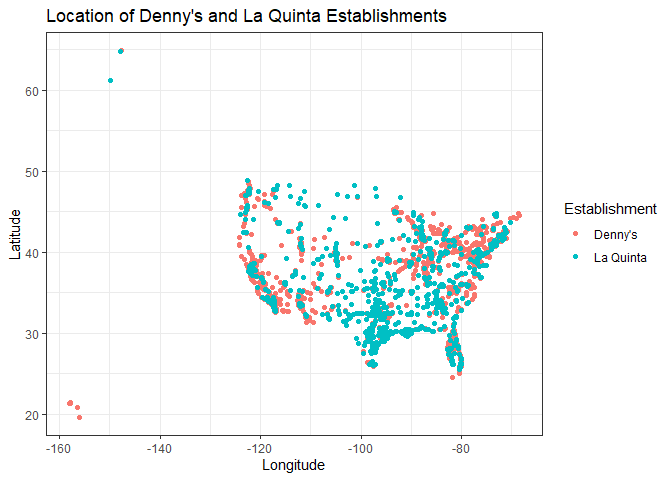
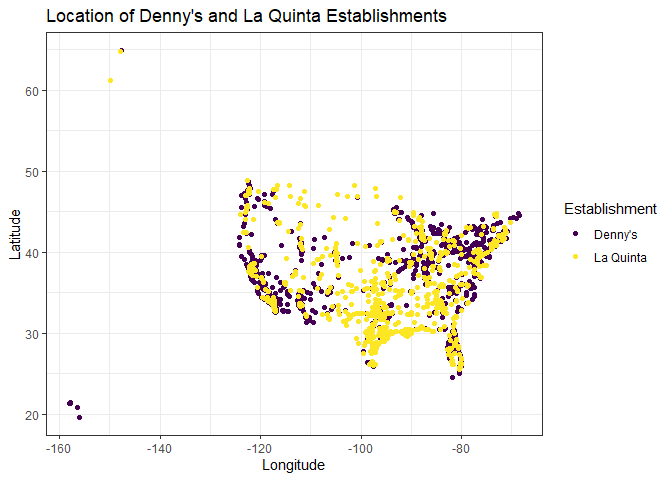
ex 11 & 12

Changed region(s): [[0.3438, 0.375, 0.7812, 0.7812], [0.5, 0.375, 0.5312, 0.4375], [0.0938, 0.8438, 0.125, 0.875]]

diff --git a/lab-04.md b/lab-04.md
@@ -397,6 +397,7 @@ ggplot(dn_lq, mapping = aes(
   color = establishment
 )) +
   geom_point() +
+  scale_color_viridis_d() +
 labs(
   title = "Location of Denny's and La Quinta Establishments",
   x = "Longitude",
@@ -407,3 +408,53 @@ labs(
 ```
 
 ![](lab-04_files/figure-gfm/plot-locations-of-the-two-establishments-1.png)<!-- -->
+
+``` r
+ggplot(
+  dn_lq %>% filter(state == "NC"),
+  aes(
+    x = longitude,
+    y = latitude,
+    color = establishment
+)) +
+  geom_point(alpha = 0.7) +
+  scale_color_viridis_d() +
+labs(
+  title = "Location of Denny's and La Quinta Establishments",
+  subtitle = "In North Carolina",
+  x = "Longitude",
+  y = "Latitude",
+  color = "Establishment",
+) +
+   theme_bw()
+```
+
+![](lab-04_files/figure-gfm/filter-plot-for-NC-only-1.png)<!-- -->
+
+From the data, it doesn’t look like Mitch Hedberg’s joke holds that
+Denny’s and LaQuinta are always next to each other. We can see that
+there are significantly more Denny’s in NC than LaQuintas.
+
+### Exercise 12
+
+``` r
+ggplot(
+  dn_lq %>% filter(state == "TX"),
+  aes(
+    x = longitude,
+    y = latitude,
+    color = establishment
+)) +
+  geom_point(alpha = 0.3) +
+  scale_color_viridis_d() +
+labs(
+  title = "Location of Denny's and La Quinta Establishments",
+  subtitle = "In Texas",
+  x = "Longitude",
+  y = "Latitude",
+  color = "Establishment",
+) +
+   theme_bw()
+```
+
+![](lab-04_files/figure-gfm/filter-plot-for-Texas-only-1.png)<!-- -->
